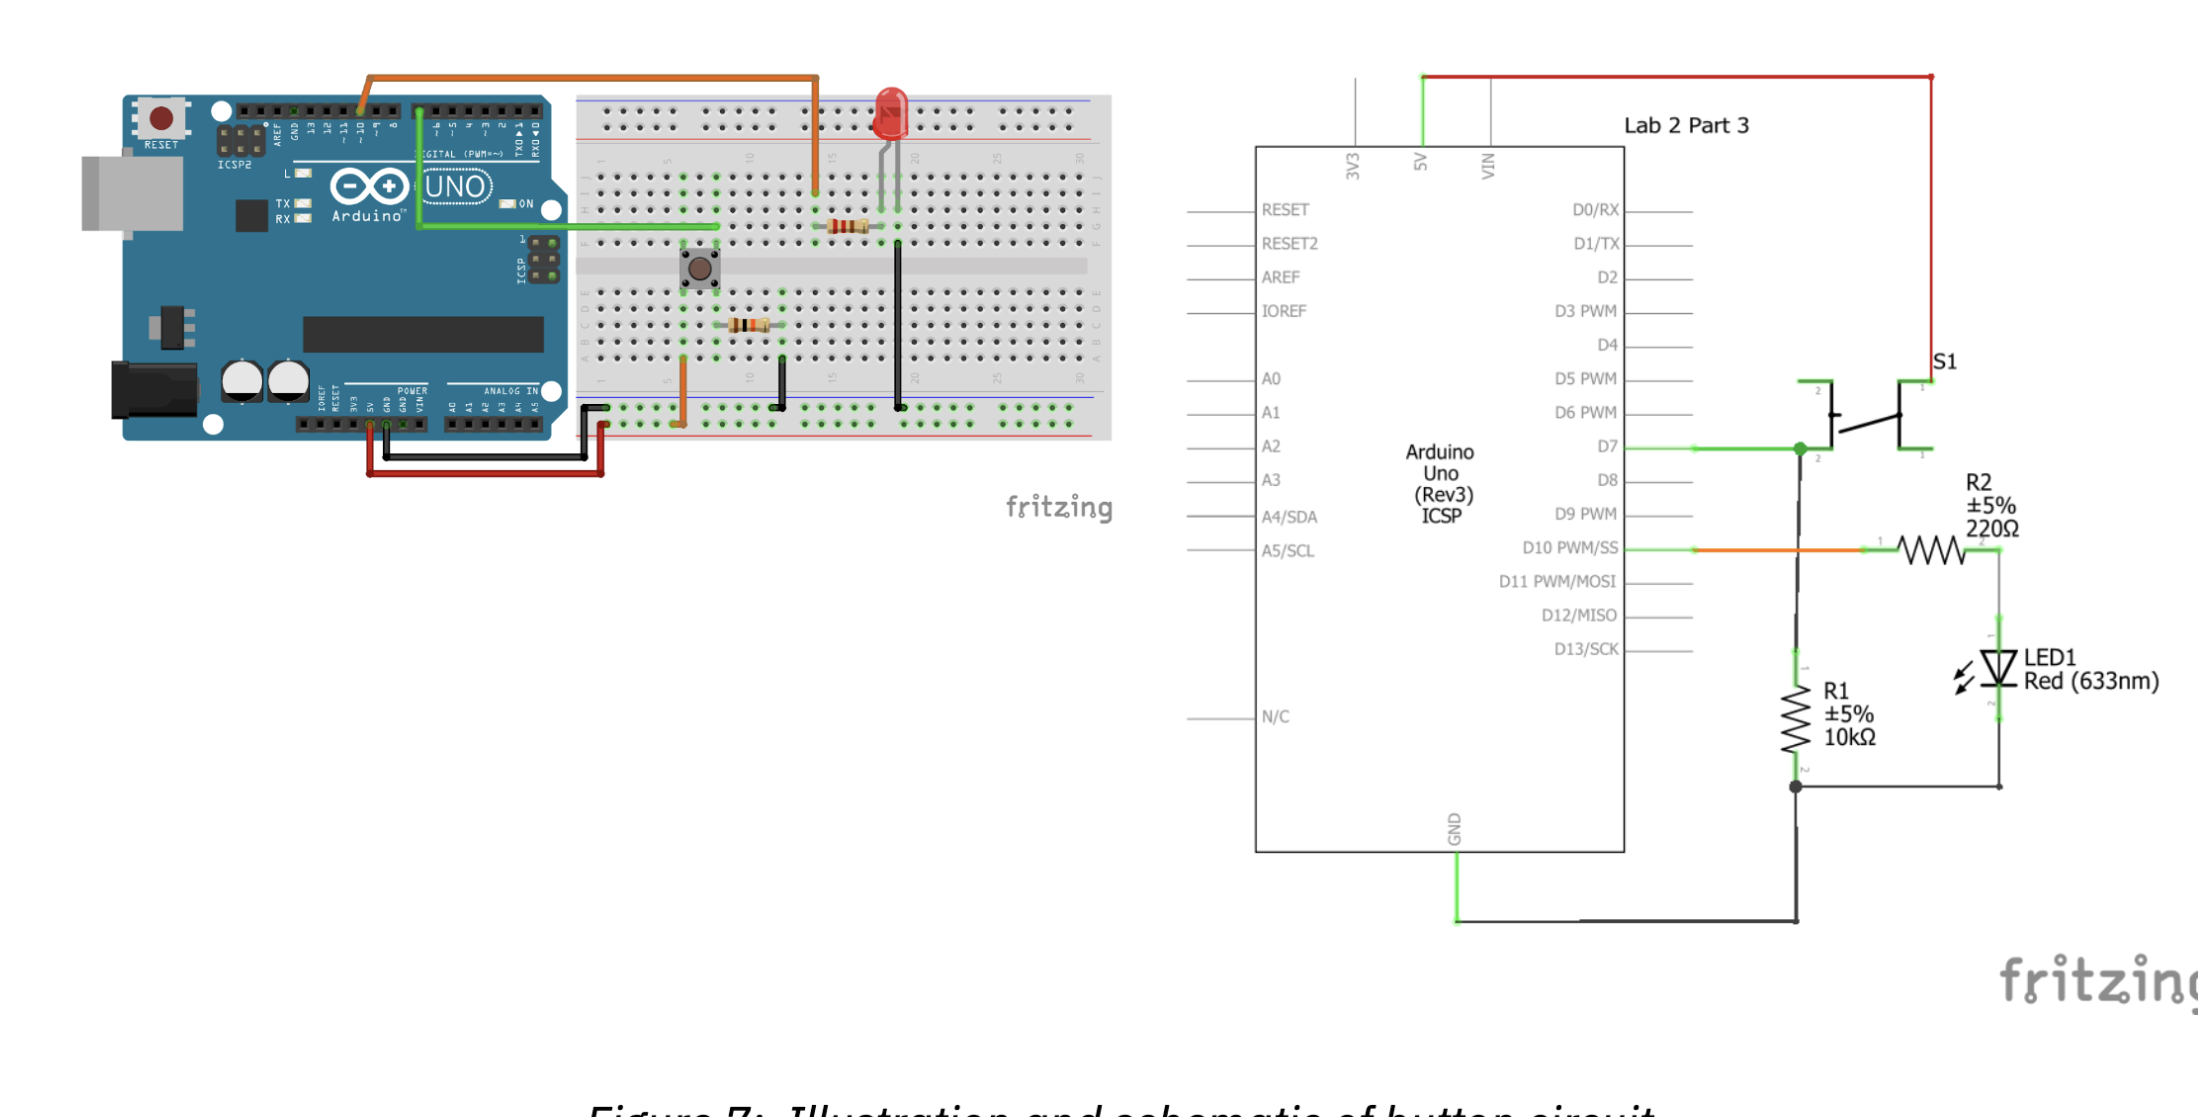
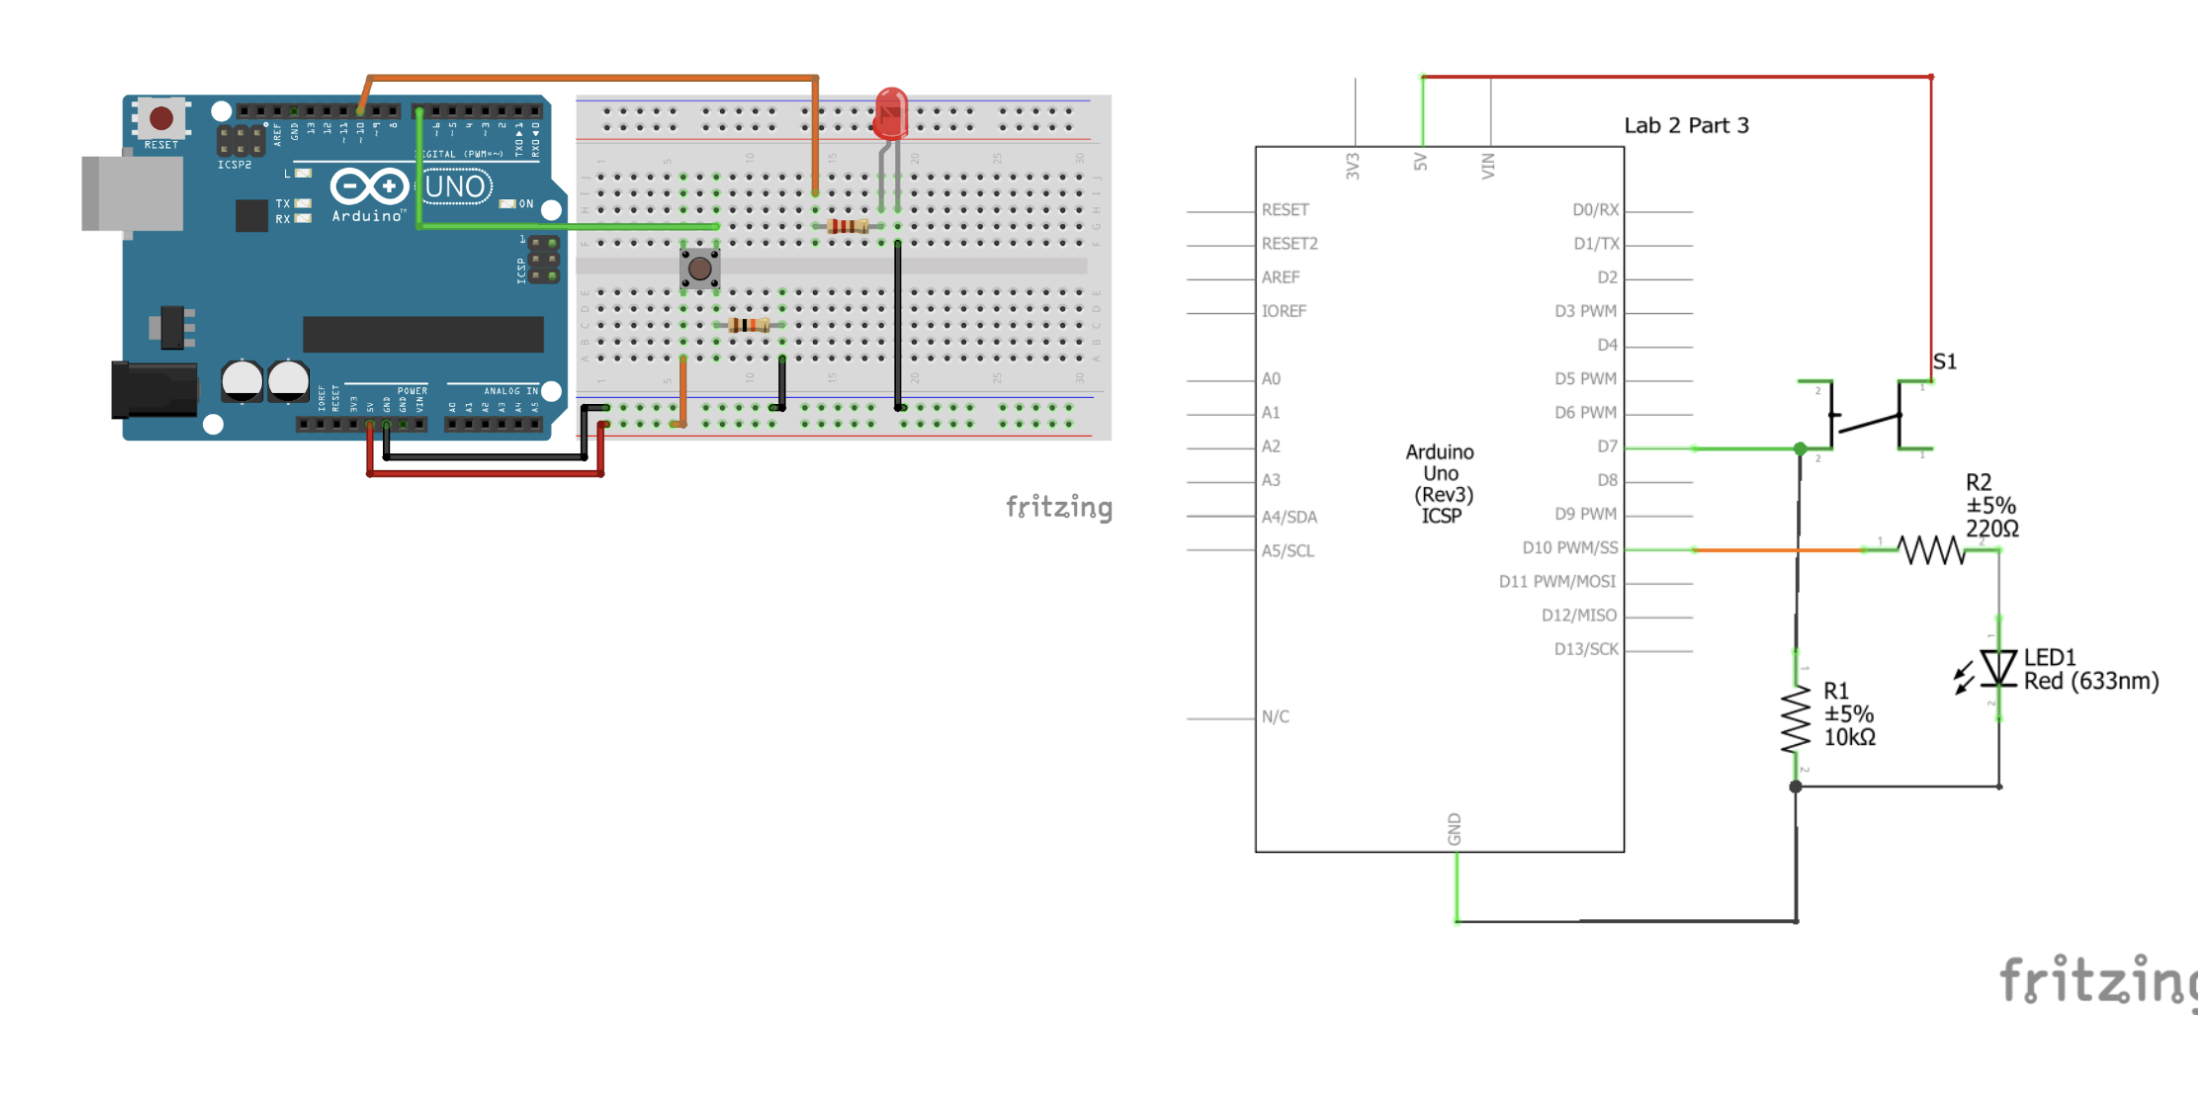
temp

diff --git a/Arduino.html b/Arduino.html
@@ -205,7 +205,7 @@
 
 								</ul>
 								<h3>LED + Arduino Uno circuit diagram and schematic</h3>
-								<span class="image main"><img src="http://bodhinpeterson-smart.me/img/Lab2_Part2.png" alt="placeholder" /></span>
+								<span class="image main"><img src="http://bodhinpeterson-smart.me/img/Lab2_Part3.png" alt="placeholder" /></span>
 								
 							</article>
 
